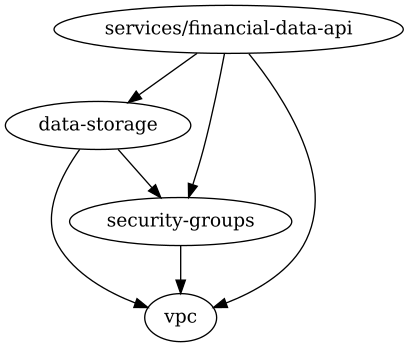
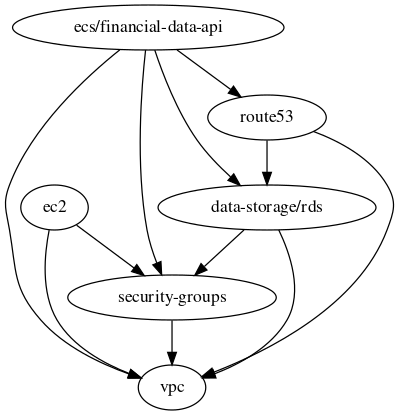
Added route53 and bastion host IaC + updated docs

diff --git a/terraform/README.md b/terraform/README.md
@@ -29,11 +29,15 @@ For each environment the below file structure will be created in s3:
 │   ├── s3
 │   │   └── .tfstate
 ├── <env>
-│   ├── data-storage
+│   ├── data-storage/rds
+│   │   └── .tfstate
+│   ├── ec2
+│   │   └── .tfstate
+│   ├── ecs/financial-data-api
+│   │   └── .tfstate
+│   ├── route53
 │   │   └── .tfstate
 │   ├── security_groups
-│   │   └── .tfstate
-│   ├── services
 │   │   └── .tfstate
 │   └── vpc
 │       └── .tfstate
@@ -73,15 +77,18 @@ I personally recommend using `us-east-1` region as [it is the cheapest region](h
 
 In the `terragrunt.hcl` of each module, we declare the dependencies on other modules so that terragrunt knows in what order to create or destroy the resources when running `terragrunt run-all apply` or `terragrunt run-all destroy`. If any of the modules fail to deploy, then Terragrunt will not attempt to deploy the modules that depend on them(cf [documentation](https://terragrunt.gruntwork.io/docs/features/execute-terraform-commands-on-multiple-modules-at-once/#dependencies-between-modules)).
 
+For example in [live/\_envcommon/financial-data-api.hcl](./live/_envcommon/financial-data-api.hcl):
+
 ```hcl
 dependencies {
-  paths = ["../vpc", "../security_groups", "../postgres"]
+  paths = ["../../vpc", "../../security-groups", "../../data-storage", "../../route53"]
 }
 ```
 
 After [installing graphviz](https://installati.one/ubuntu/20.04/graphviz/) you can run:
 
 ```bash
+cd live/dev
 terragrunt graph-dependencies | dot -Tsvg > graph.svg
 ```
 
@@ -95,7 +102,8 @@ Terragrunt is a great tool for keeping your code DRY but you may be wondering ho
 <module>/terragrunt.hcl <-- _envcommon.hcl <-- env.hcl                                                              |
 ```
 
-Where `<module>/terragrunt.hcl` could be `data-storage/terragrunt.hcl` and `A <-- B` mean `A` imports `B`
+Where `<module>/terragrunt.hcl` could be `data-storage/rds
+ds/terragrunt.hcl` and `A <-- B` means `A` imports `B`
 
 You can adjust `_envcommon/*` depending on how DRY you want your terraform code to be. I personally tend to only leave the variables declaration as well as the terraform states fetching in these files. The resources are not DRY and remain in the environment folders.
 
@@ -250,7 +258,7 @@ If you are new to this, a goood explanation of what VPCs are is detailed in [AWS
 
 It's [best practice](https://www.hyperglance.com/blog/aws-vpc-security-best-practices/) to create 1 VPC per application that you want to deploy and ideally 1 account per app, per environment to limit blast radius.
 
-module paths:
+module path:
 
 - [live/dev/vpc](live/dev/vpc)
 
@@ -262,9 +270,13 @@ Resources added:
 - Create subnet route tables
 - Create route table associations
 
+#### Associated costs
+
+Free. However beware of the [traffic cost](https://www.nops.io/aws-data-transfer-cost-operation/).
+
 ### D - Create security groups (instance-level firewalls)
 
-module paths:
+module path:
 
 - [live/dev/security-groups](live/dev/security-groups)
 
@@ -272,12 +284,17 @@ Resources added:
 
 - Create a security group for the web-server
 - Create a security group for the database
+- Create a security group for the bastion host
+
+#### Associated costs
+
+Free
 
 ### E - Create Postgres DB
 
-module paths:
+module path:
 
-- [live/dev/data-storage](live/dev/data-storage)
+- [live/dev/data-storage/rds](live/dev/data-storage/rds)
 
 Resources added:
 
@@ -292,31 +309,76 @@ There are a few benefits we get from using AWS Secrets Manager, the sensitive da
 
 Note that secrets can be injected at task definition in ECS/EKS but whilst passing secrets to your application through the filesystem or environment variables is common, it should be avoided when possible and the Secret Manager API should be used directly (cf [Google best practices](https://cloud.google.com/secret-manager/docs/best-practices#coding_practices))
 
-This comes at the cost that our application is not cloud-agnostic anymore since we have AWS API calls in the application code. Also at the time of this writing AWS App Runner doesn't support secrets injection ([cf open issue](https://github.com/aws/apprunner-roadmap/issues/6))
+This comes at the cost that our application is not cloud-agnostic anymore since we have AWS API calls in the application code.
+
+#### Associated costs
+
+- $0.4/secret/month (as of 2022-10-30 cf AWS Secrets Manager Pricing)
+
+This db.t3.micro with 20 GB of General Purpose (SSD) DB storage instance sits into the AWS free-tier so it is free (cf [Amazon RDS Pricing](https://aws.amazon.com/rds/pricing/))
 
 ### F - DNS (Route 53)
 
-module paths:
+module path:
 
 - [live/dev/route53](live/dev/route53)
 
-### G - RDS PostgreSQL DB: Create DB schema and populate dev data
+Resources added:
+
+- Private hosted zone
+- One record type (A) that matches the alias record of the RDS DB
+
+A private hosted zone is a container that holds information about how you want to route traffic for a domain and its subdomains within one or more VPCs without exposing your resources to the internet (cf [View and update DNS attributes for your VPC](https://docs.aws.amazon.com/vpc/latest/userguide/vpc-dns.html#vpc-dns-updating))
+
+if you still struggle to troubleshoot DNS issues within your VPC https://aws.amazon.com/premiumsupport/knowledge-center/route-53-fix-dns-resolution-issues/
+
+#### Associated costs
+
+- $0.5/month for the hosted zone (as of 2022-10-30)
+
+DNS queries are free when domain or subdomain name the record type (A) in the query match an alias record (cf [Amazon Route 53 pricing](https://aws.amazon.com/route53/pricing/))
+
+Also check out the great explanation on Route53 pricing in [this article](https://www.stormit.cloud/blog/amazon-route-53-pricing/)
+
+### G - Create a bastion host
+
+module path:
+
+- [live/dev/ec2](live/dev/ec2)
+
+Resources added:
+
+- EC2 instance
+
+Create EC2 instance on public subnet with restrictive security-group that only allows ssh from EC2 Instance connect. As we are using the region us-east-1 the IP range to whitelist is 18.206.107.24/29 cf [https://ip-ranges.amazonaws.com/ip-ranges.json](https://ip-ranges.amazonaws.com/ip-ranges.json). This bastion host is useful for troubleshooting issues from within the VPC (is my DNS private hosted zone working?) or accessing resources that sit in a private subnet (like the RDS DB for instance).
+
+For more info check out the official documentation: [Set up EC2 Instance Connect](https://docs.aws.amazon.com/AWSEC2/latest/UserGuide/ec2-instance-connect-set-up.html)
+
+#### Associated costs
+
+This t2.micro instance sits into the AWS free-tier so it is free. Here is the pricing outside the free-tier:
+
+|   Instance class  | vCPUs | RAM (GiB)| CPU Credits/hr| On-Demand Price/hr |
+|:-----------------:|:-----:|:--------:|:-------------:|:------------------:|
+|    t2.micro       |   1   |     1    |        6      |        $0.0116     |
+
+*(prices as of 2022-10-30 cf [Amazon EC2 T2 Instances](https://aws.amazon.com/ec2/instance-types/t2/))*
+
+### H - RDS PostgreSQL DB: Create DB schema and populate dev data
 
 We have now instantiated a RDS DB on the private subnet which means connections from/to the internet are not enabled. Even though it would be practical we do not whitelist public IPs as this is bad practice, RDS should remain on a private subnet.
 
 So how do I populate my private RDS DB with a one-off script?
 
-To execute SQL queries on the DB instance we can SSH onto an EC2 instance (in public subnet) that we call **bastion host**.
-
-Let's use the following command to create the DB schema and populate our DB with the mock dataset
+To execute SQL queries on the DB instance we can SSH onto our **bastion host** which is an EC2 instance (in public subnet).
 
 To connect to a private Amazon RDS, it's a best practice to use VPN or AWS Direct Connect ([cf aws documentation](https://aws.amazon.com/premiumsupport/knowledge-center/rds-connect-ec2-bastion-host/#)). Because I intend to remain in AWS free-tier I instead use a bastion host.
 
-1 - Create EC2 instance (bastion host) on public subnet with restrictive sg (should only allow ssh from public CIDR of your corporation)
+Let's use the following command to create the DB schema and populate our DB with the mock dataset
 
-2 - SSH onto the EC2 bastion host using AWS instance connect (in the web console)
+1 - SSH onto the EC2 bastion host using AWS instance connect (in the web console)
 
-3 - Run the following script on the machine (make sure you replace the DB host name as well as the password)
+2 - Run the following script on the machine
 
 ```bash
 # Update installed packages to the latest available releases.
@@ -360,9 +422,9 @@ sudo yum -y install postgresql12 postgresql12-server
 psql -h dev.custom_db_hostname.com -p 5432 -d market_data -U postgres -c "SELECT * FROM market_data.stocks_ohlcv;"
 ```
 
-### H - Deploy serverless web-app (ECS with Fargate ASG)
+### I - Deploy serverless web-app (ECS with Fargate)
 
-module paths:
+module path:
 
 - [live/dev/ecs/financial-data-api](live/dev/services/financial-data-api)
 
@@ -383,7 +445,7 @@ ECS does not run or execute your container (AWS Fargate will) but only provides 
 *(image from [Amazon ECS launch types](https://docs.aws.amazon.com/AmazonECS/latest/developerguide/launch_types.html))*
 <br></br>
 
-Note that in the task definition we use the `awsvpc` network mode (cf [best practices](https://docs.aws.amazon.com/AmazonECS/latest/bestpracticesguide/application.html)) and maps the container port 5000 (gunicorn server) with the host however we only want to expose the Nginx server that runs on port 80. That's when the security-group at service level becomes useful as it is only allowing incoming request from port 80.
+Note that in the task definition we use the `awsvpc` network mode (cf [best practices](https://docs.aws.amazon.com/AmazonECS/latest/bestpracticesguide/application.html)) and maps the container port 5000 (gunicorn server) with the host however we only want to expose the Nginx server that runs on port 80. That's when the security-group at service level becomes useful as it is only allowing incoming traffic from port 80.
 
 Using the Public IP of the ECS service (you can easily find it in the web-console as shown be below).
 
@@ -393,4 +455,16 @@ We can now access our API from the web browser:
 
 <img src="../docs/img/api_request_example.png" width="700"/>
 
-I did not bother buying a public domain name for this demo but in practice we would want a HTTPS endpoint with a more readable name like "mysuperapi.com".
+> Note that not precising any specific port will default the request to port 80.
+
+I did not bother buying a public domain name for this demo but in practice we would want a HTTPS endpoint with a more readable name like "mysuperapi.com". Also you would need to assign an elastic IP to the ECS service or its public IP will change every time you redeploy the resource. If your API isn't meant to be public and you want to restrict access to certain users only [AWS Cognito](https://aws.amazon.com/cognito/) is doing a great job at user management and authentication for the backend API.
+
+#### **Associated costs**
+
+Unfortunately ECS is not part of the AWS free tier. For ECS with Fargate launch type you will be charged based on vCPU and memory resources that the containerized application requests. See below:
+
+|   Launch type  | $/vCPU/h |    $/GB/h   |
+|:--------------:|:--------:|:-----------:|
+|    FARGATE     |  0.04048 |  0.004445   |
+|  FARGATE SPOT  |  0.012144|  0.0013335  |
+*(prices as of 2022-10-30 cf [AWS Fargate Pricing](https://aws.amazon.com/fargate/pricing/))*
